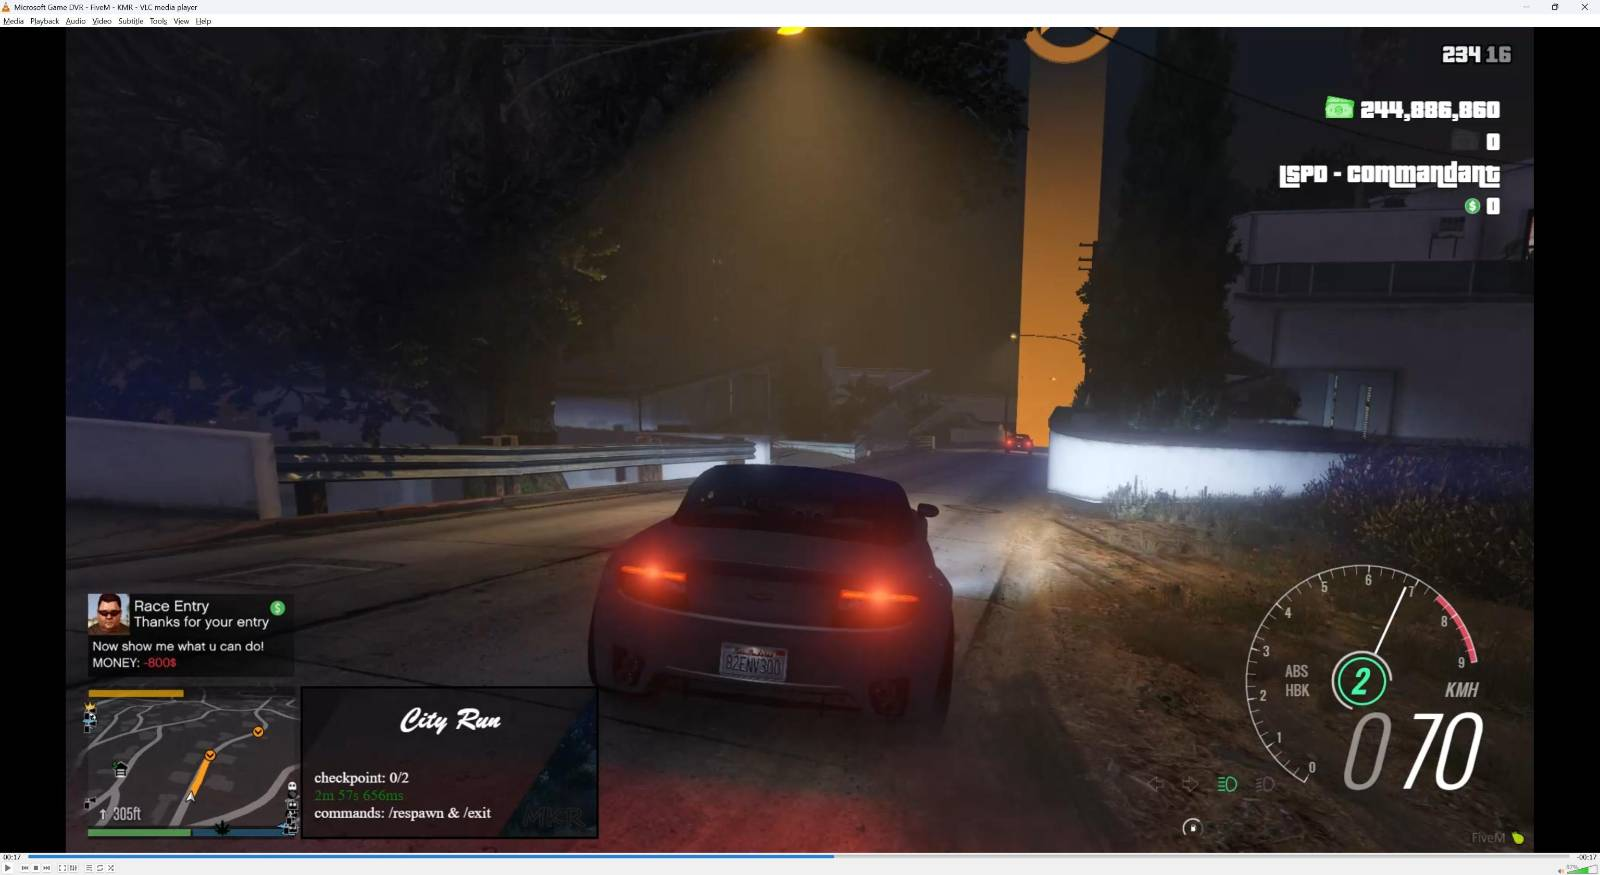
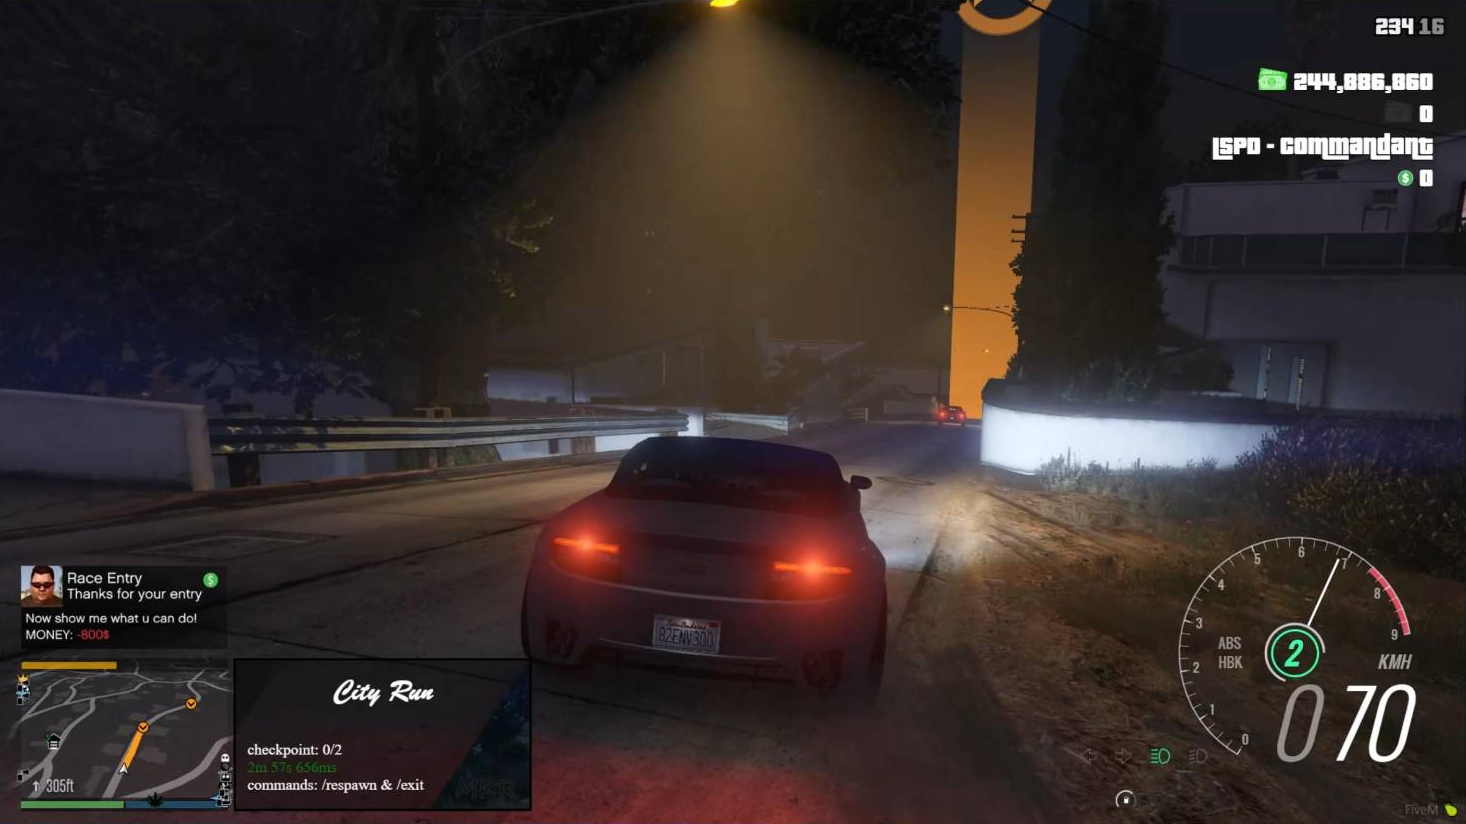
feat: studium fix: mkr pictures crop

diff --git a/index.html b/index.html
@@ -47,8 +47,8 @@
     .card-hover { transition: transform .3s ease, border-color .3s ease, box-shadow .3s ease; }
     .card-hover:hover { transform: translateY(-4px); border-color: rgba(245, 184, 46, .35); box-shadow: 0 20px 50px -25px rgba(245, 184, 46, .35); }
     /* Herný výrez pôvodných 1600 × 875 snímok: bez VLC a čiernych okrajov. */
-    .mkr-viewport { position: relative; aspect-ratio: 1468 / 824; overflow: hidden; background: #05080f; }
-    .mkr-screenshot { position: absolute; width: 108.99183%; max-width: none; height: auto; left: -4.49591%; top: -3.39806%; }
+    .mkr-viewport { position: relative; aspect-ratio: 1466 / 824; overflow: hidden; background: #05080f; }
+    .mkr-screenshot { position: absolute; inset: 0; width: 100%; height: 100%; object-fit: cover; }
     .pixel { image-rendering: pixelated; }
     #fireflies { position: absolute; inset: 0; width: 100%; height: 100%; }
     .caret::after { content: "▍"; margin-left: 2px; color: #f5b82e; animation: blink 1s steps(1) infinite; }
@@ -114,10 +114,11 @@
           <a href="#kontakt" class="glass rounded-full px-6 py-3 font-semibold text-white transition hover:border-moon-400/50">Kontakt</a>
         </div>
 
-        <dl class="reveal mt-16 grid max-w-3xl grid-cols-1 gap-4 sm:grid-cols-3">
-          <div class="glass rounded-2xl p-4"><dt class="text-xs uppercase tracking-wider text-slate-400">Kotlin</dt><dd class="mt-1 text-2xl font-bold text-white">~26k</dd><dd class="text-xs text-slate-400">riadkov v jednom projekte</dd></div>
-          <div class="glass rounded-2xl p-4"><dt class="text-xs uppercase tracking-wider text-slate-400">C99 render</dt><dd class="mt-1 text-2xl font-bold text-white">0,5 ms</dd><dd class="text-xs text-slate-400">na jeden snímok</dd></div>
-          <div class="glass rounded-2xl p-4"><dt class="text-xs uppercase tracking-wider text-slate-400">Vydané</dt><dd class="mt-1 text-2xl font-bold text-white">KDE Store</dd><dd class="text-xs text-slate-400">aj balíčky .deb, .rpm a pre Arch</dd></div>
+        <dl class="reveal mt-16 grid max-w-5xl grid-cols-1 gap-4 sm:grid-cols-2 lg:grid-cols-4">
+          <div class="glass rounded-2xl p-4"><dt class="text-xs uppercase tracking-wider text-slate-400">Bakalárska práca</dt><dd class="mt-1 text-2xl font-bold text-white">VR + mobil</dd><dd class="text-xs text-slate-400">rehabilitačný systém s cloudom, navrhnutý a napísaný samostatne</dd></div>
+          <div class="glass rounded-2xl p-4"><dt class="text-xs uppercase tracking-wider text-slate-400">Vydané</dt><dd class="mt-1 text-2xl font-bold text-white">KDE Store</dd><dd class="text-xs text-slate-400">widget v obchode KDE, ďalšie projekty s balíčkami .deb, .rpm a pre Arch</dd></div>
+          <div class="glass rounded-2xl p-4"><dt class="text-xs uppercase tracking-wider text-slate-400">Najväčší projekt</dt><dd class="mt-1 text-2xl font-bold text-white">~26k riadkov</dd><dd class="text-xs text-slate-400">Kotlin, päť vydaní, vyše 180 testov</dd></div>
+          <div class="glass rounded-2xl p-4"><dt class="text-xs uppercase tracking-wider text-slate-400">2022 – 2024</dt><dd class="mt-1 text-2xl font-bold text-white">Autor úloh KSI</dd><dd class="text-xs text-slate-400">päť úloh a opravovanie riešení v seminári FI MU pre stredoškolákov</dd></div>
         </dl>
       </div>
     </section>
@@ -389,7 +390,7 @@
         <div class="reveal glass rounded-2xl p-5">
           <div class="font-mono text-2xl text-moon-400">/api REST</div>
           <h3 class="mt-3 font-semibold text-white">KIRA: rezervačný systém</h3>
-          <p class="mt-2 text-sm">Rezervácie termínov a technológií v mobilnom STEM návese: schvaľovanie žiadostí, biznis pravidlá, audit log, export do CSV. Celé prostredie v Dockeri. Školský projekt.</p>
+          <p class="mt-2 text-sm">Rezervácie termínov a technológií v mobilnom STEM návese: schvaľovanie žiadostí, biznis pravidlá, audit log, export do CSV. Celé prostredie v Dockeri. Vlastné riešenie v súťaži ročníka o systém pre neziskovú organizáciu.</p>
           <div class="mt-4 flex flex-wrap gap-1.5"><span class="tag">Node.js</span><span class="tag">TypeScript</span><span class="tag">Prisma</span><span class="tag">PostgreSQL</span><span class="tag">React</span><span class="tag">Docker</span></div>
         </div>
       </div>
@@ -404,10 +405,10 @@
           <figure id="mkr-gallery" aria-label="Snímky neskoršej verzie MKR" aria-roledescription="karusel">
             <div class="mkr-viewport">
               <div data-mkr-slide role="group" aria-label="1 z 2: City Run s HUD">
-                <img src="assets/mkr-city-run.png" alt="City Run: checkpointy a časomiera v neskoršom rozhraní MKR" width="1600" height="875" class="mkr-screenshot" loading="lazy">
+                <img src="assets/mkr-city-run.png" alt="City Run: checkpointy a časomiera v neskoršom rozhraní MKR" width="1466" height="824" class="mkr-screenshot" loading="lazy">
               </div>
               <div data-mkr-slide role="group" aria-label="2 z 2: Príprava pretekov" hidden>
-                <img src="assets/mkr-prepare-race.png" alt="MKR: úvodná obrazovka pred štartom pretekov" width="1600" height="875" class="mkr-screenshot" loading="lazy">
+                <img src="assets/mkr-prepare-race.png" alt="MKR: úvodná obrazovka pred štartom pretekov" width="1466" height="824" class="mkr-screenshot" loading="lazy">
               </div>
             </div>
             <figcaption class="flex items-center justify-between gap-3 px-5 py-3 text-xs text-slate-400">
@@ -481,6 +482,53 @@
       </div>
     </section>
 
+    <!-- ============ STUDY ============ -->
+    <section id="studium" class="mx-auto max-w-6xl px-4 pt-24 sm:px-6">
+      <div class="reveal mb-12">
+        <p class="font-mono text-sm text-firefly-400">// zo štúdia</p>
+        <h2 class="mt-2 text-3xl font-bold text-white sm:text-4xl">S čím som pracoval v škole</h2>
+        <p class="mt-3 max-w-2xl text-sm text-slate-400">Zadania navrhli vyučujúci, ja som ich riešil. Je tu len to, čo som pri nich sám napísal alebo nastavil.</p>
+      </div>
+      <div class="grid gap-5 sm:grid-cols-2 lg:grid-cols-3">
+          <div class="reveal glass rounded-2xl p-6">
+            <h3 class="font-semibold text-white">Algoritmy a dátové štruktúry</h3>
+            <p class="mt-3 text-sm leading-relaxed">Zoznamy, haldy, vyvažovaný vyhľadávací strom, prechody grafom, silno súvislé komponenty, Dijkstra a Bellman-Ford, Kruskal a Prim, triedenia s meraním. Na skúšku rotácie a vkladanie do červeno-čierneho stromu, B-strom a hašovacia tabuľka. Python, C, C++, R.</p>
+          </div>
+          <div class="reveal glass rounded-2xl p-6">
+            <h3 class="font-semibold text-white">C a C++</h3>
+            <p class="mt-3 text-sm leading-relaxed">Šesť väčších úloh v C: Hammingov kód, pokrové kombinácie, klon nástroja <span class="font-mono text-[.8rem] text-moon-300">du</span>, grafy funkcií do SVG. V C++ aritmetika veľkých čísel, strom JSON hodnôt, simulácia prepínača. Pamäť kontrolovaná Valgrindom.</p>
+          </div>
+          <div class="reveal glass rounded-2xl p-6">
+            <h3 class="font-semibold text-white">Java, C# a Python</h3>
+            <p class="mt-3 text-sm leading-relaxed">Šach a dáma v Jave v ôsmich iteráciách s revíziou kódu, desktopová aplikácia na správu skladu z tímového projektu, kde som robil väčšinu implementácie. V C# generiká, výnimky a unifikácia typov. V Pythone tetris, míny a rodokmeň s rekurziou.</p>
+          </div>
+          <div class="reveal glass rounded-2xl p-6">
+            <h3 class="font-semibold text-white">Web v TypeScripte</h3>
+            <p class="mt-3 text-sm leading-relaxed">React, Vite a Storybook, REST API v Expresse, Prisma nad PostgreSQL, monorepo, Docker, nginx, GitLab CI a Vitest. Menší podiel na tímovom 3D vizualizéri nábytku v three.js.</p>
+          </div>
+          <div class="reveal glass rounded-2xl p-6">
+            <h3 class="font-semibold text-white">Databázy</h3>
+            <p class="mt-3 text-sm leading-relaxed">Semestrálny projekt v Oracle: schéma požičovne áut so 14 tabuľkami, pohľady, funkcia a procedúra s kurzorom, trigger a naplánovaná úloha v PL/SQL.</p>
+          </div>
+          <div class="reveal glass rounded-2xl p-6">
+            <h3 class="font-semibold text-white">Systémy a siete</h3>
+            <p class="mt-3 text-sm leading-relaxed">Bash a POSIX programovanie v C, Active Directory na Windows Serveri, OSPF cez FRRouting a NAT v GNS3. V magisterskom štúdiu Ansible, Proxmox, WireGuard a rsyslog.</p>
+          </div>
+          <div class="reveal glass rounded-2xl p-6">
+            <h3 class="font-semibold text-white">Návrh a práca v tíme</h3>
+            <p class="mt-3 text-sm leading-relaxed">UML diagramy v PlantUML, návrhová a testovacia dokumentácia, klasifikácia chýb, vývojové diagramy. Aktuálne Scrum v trojčlennom tíme nad CodeIgniter 4 a MariaDB.</p>
+          </div>
+          <div class="reveal glass rounded-2xl p-6">
+            <h3 class="font-semibold text-white">Technické písanie</h3>
+            <p class="mt-3 text-sm leading-relaxed">Semestrálny kurz na FI MU vedený technickými redaktormi z Red Hatu: štýl dokumentácie, Markdown, Mallard a práca cez Git. Príručka k vlastnému botovi a úpravy v dokumentácii GNOME.</p>
+          </div>
+          <div class="reveal glass rounded-2xl p-6">
+            <h3 class="font-semibold text-white">Grafika, 3D a hardvér</h3>
+            <p class="mt-3 text-sm leading-relaxed">GIMP, Inkscape, modelovanie a animácia v Blenderi, plošinovka v Godote. V tímovej vzdelávacej hre v Unity programovacia časť v C# a časť 3D modelov. Arduino so senzormi, displejom, RFID a servom. MATLAB a R.</p>
+          </div>
+      </div>
+    </section>
+
     <!-- ============ TIMELINE ============ -->
     <section id="cesta" class="mx-auto max-w-4xl px-4 py-24 sm:px-6">
       <div class="reveal mb-12">
@@ -507,14 +555,14 @@
           <p class="font-mono text-xs text-slate-500">2024</p>
           <h3 class="mt-1 font-semibold text-white">GNOME, open-source prispievateľ</h3>
           <p class="text-sm">Úpravy dokumentácie touchpadu v gnome-user-docs (Git, GitLab, Mallard/XML)</p>
-          <p class="mt-1 text-sm">Príspevok vznikol v kurze Technical Writing na FI MU.</p>
+          <p class="mt-1 text-sm">Záverečný projekt kurzu technického písania, ktorý na FI MU vedú redaktori z Red Hatu: sekcie o sekundárnom kliknutí touchpadom a o obnovovacej frekvencii obrazovky.</p>
         </li>
         <li class="reveal relative mb-10 pl-8">
           <span class="absolute -left-[7px] top-1.5 h-3.5 w-3.5 rounded-full bg-moon-400"></span>
           <p class="font-mono text-xs text-slate-500">2022 – 2024</p>
           <h3 class="mt-1 font-semibold text-white">Fakulta informatiky MU, Brno</h3>
           <p class="text-sm">Programování a vývoj aplikací, ukončené prestupom na UCM</p>
-          <p class="mt-1 text-sm">Popri štúdiu <span class="text-white">autor úloh v KSI</span>: interaktívne webové programovacie úlohy (Python, JavaScript)</p>
+          <p class="mt-1 text-sm">Popri štúdiu <span class="text-white">autor úloh v KSI</span>: interaktívne webové programovacie úlohy (Python, JavaScript). Päť úloh v dvoch ročníkoch, od binárnej sčítačky po rekurziu a úvod do OpenCV, vrátane kontrolných skriptov. K tomu opravovanie riešení a odpovede riešiteľom.</p>
         </li>
         <li class="reveal relative pl-8">
           <span class="absolute -left-[7px] top-1.5 h-3.5 w-3.5 rounded-full bg-slate-500"></span>
